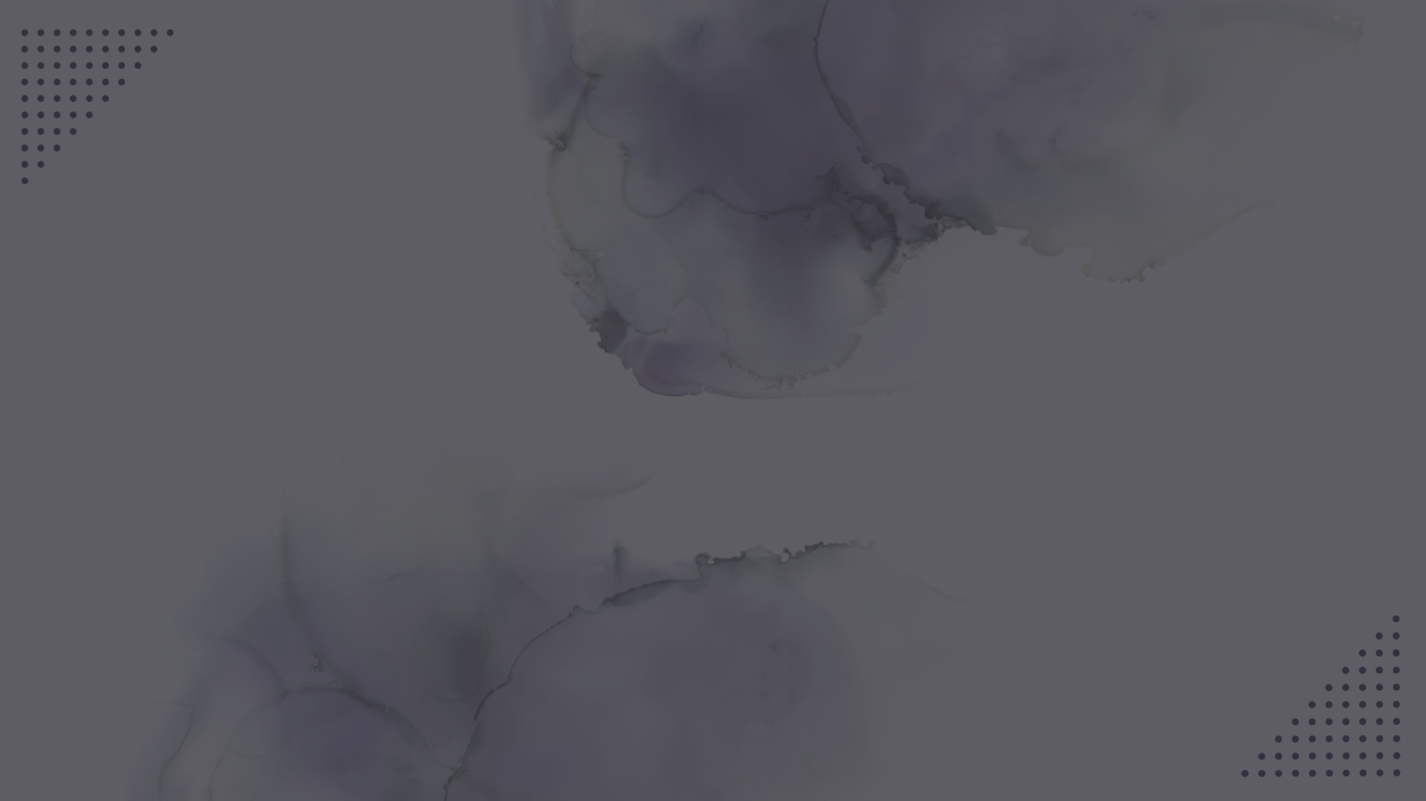
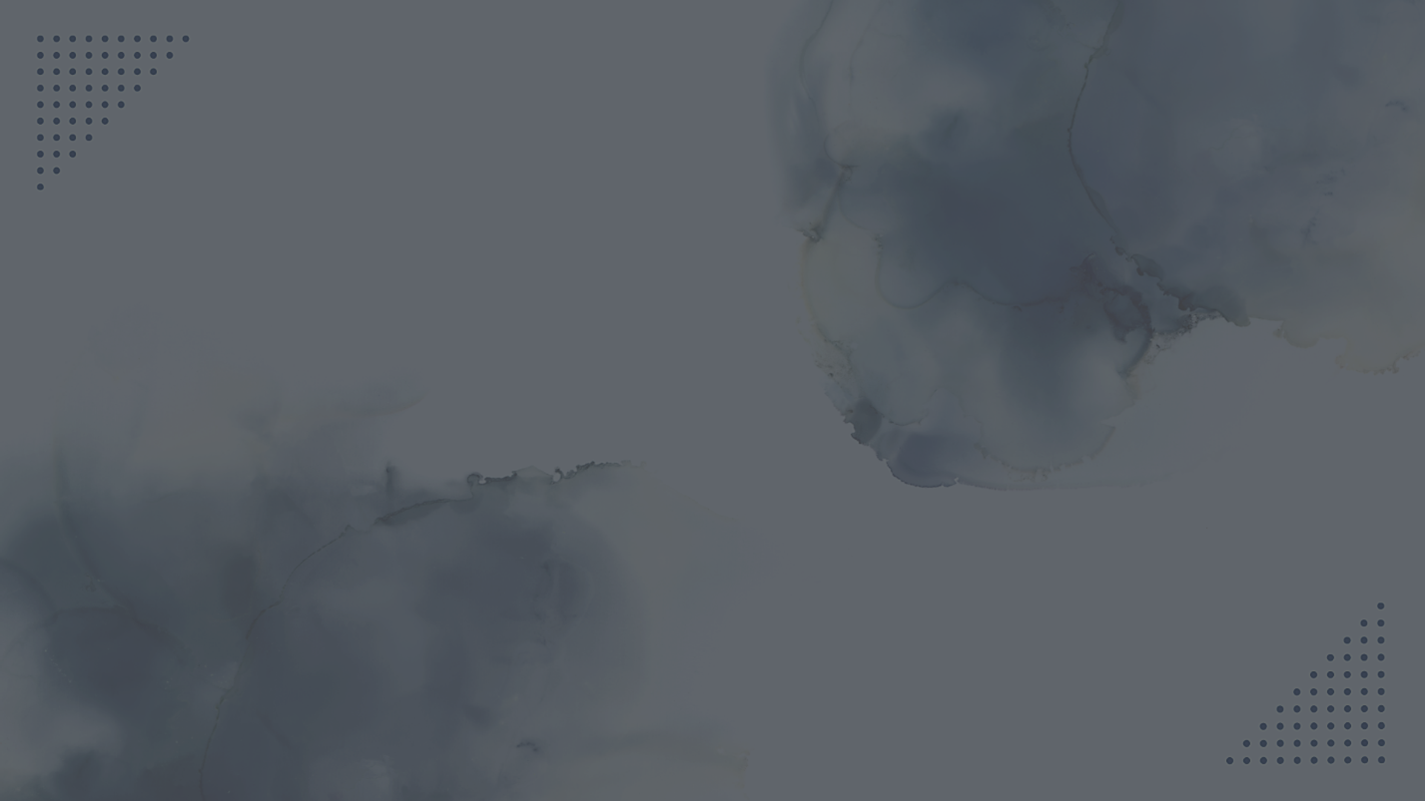
фон и целевые

diff --git a/pages/monitoring/monitoring.js b/pages/monitoring/monitoring.js
@@ -393,7 +393,7 @@ function renderMonitoringPage(s) {
 
     if (!isVoMode && s.lgota.length > 0) {
         html += `\n<h2 class="section-title">Льготные вне конкурса по баллам:</h2>
-        <div class="bar-table-wrapper" style="max-width: 250px;"><table class="bar-table"><thead><tr>`;
+        <div class="bar-table-wrapper"><table class="bar-table"><thead><tr>`;
         s.lgota.forEach(a => html += `<th>${a.label}</th>`);
         html += `</tr></thead><tbody><tr>`;
         s.lgota.forEach(a => html += `<td class="cell-green">${a.count}</td>`);
@@ -414,7 +414,7 @@ function renderMonitoringPage(s) {
         };
 
         html += `\n<h2 class="section-title">Целевые по баллам:</h2>
-        <div class="bar-table-wrapper" style="max-width: 150px;"><table class="bar-table"><thead><tr>`;
+        <div class="bar-table-wrapper"><table class="bar-table"><thead><tr>`;
         s.target.forEach(a => html += `<th>${a.label}</th>`);
         html += `</tr></thead><tbody><tr>`;
         s.target.forEach(a => {